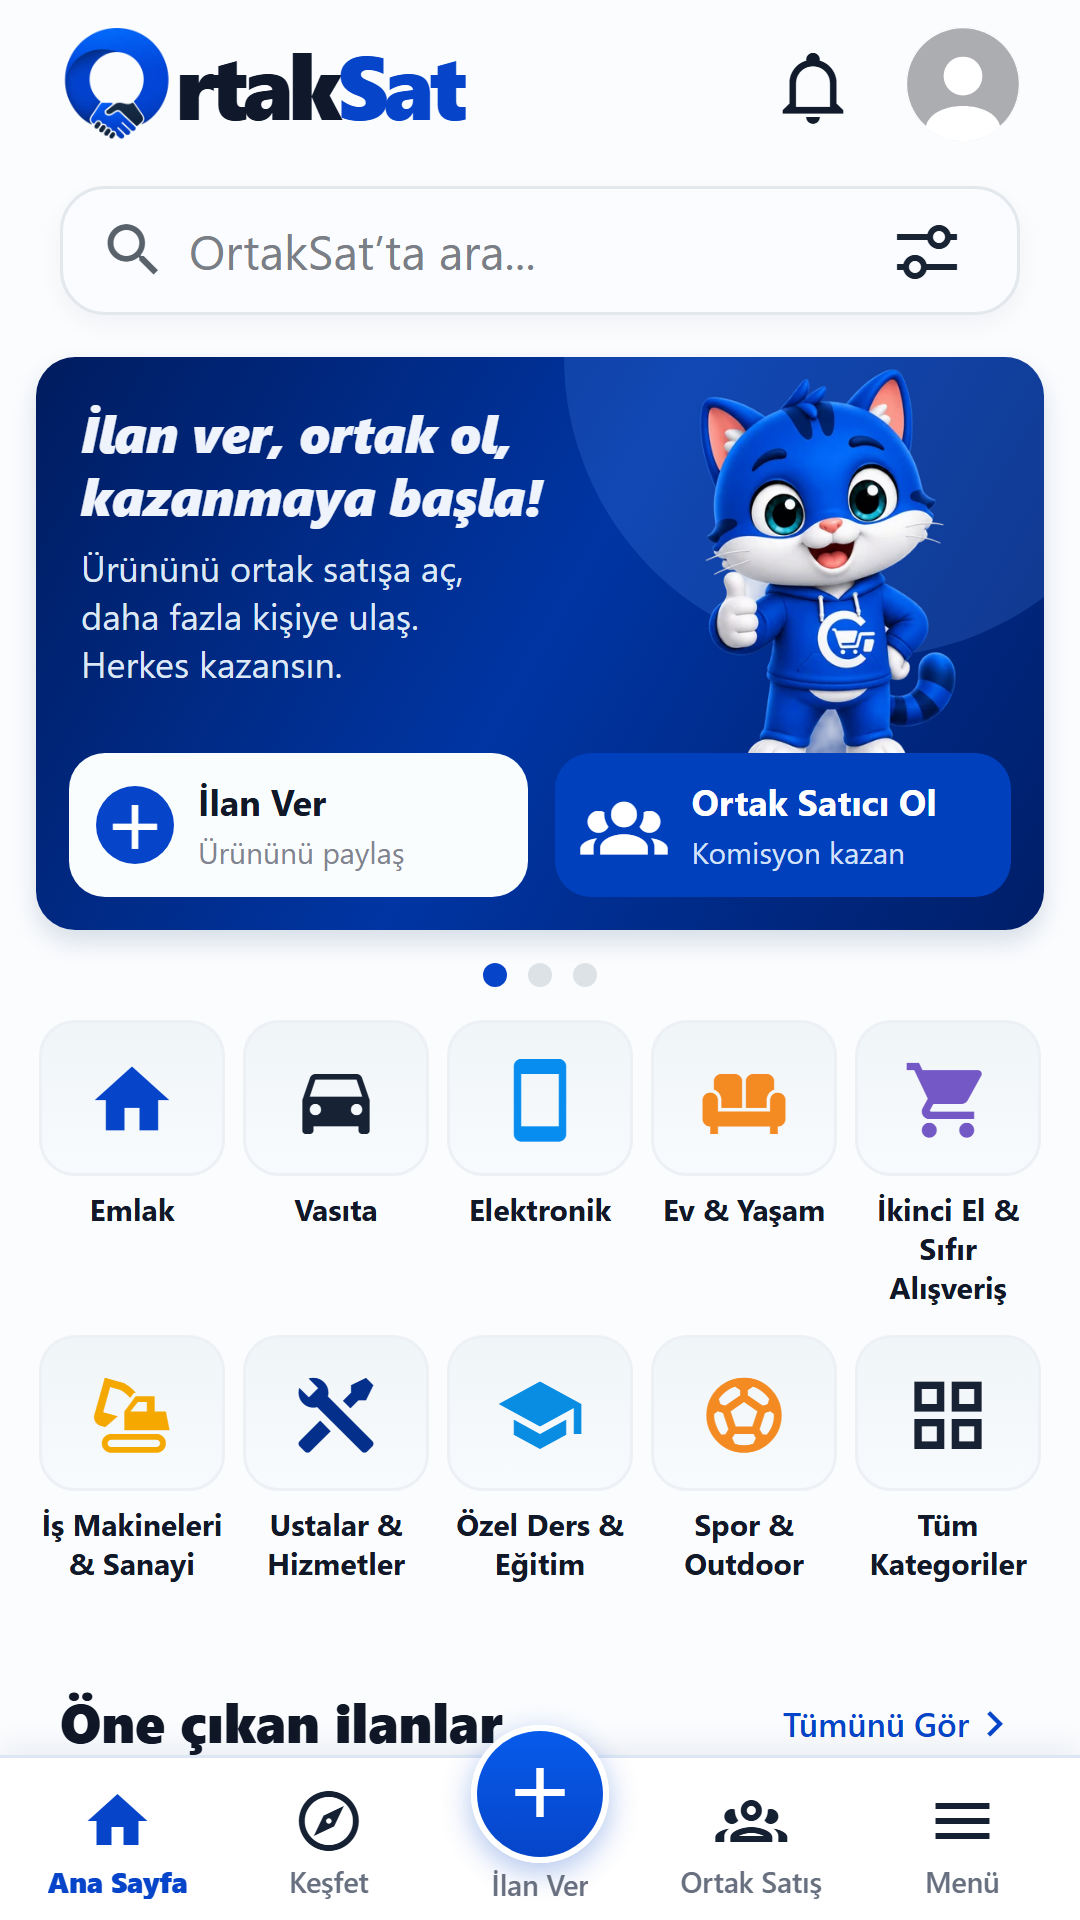
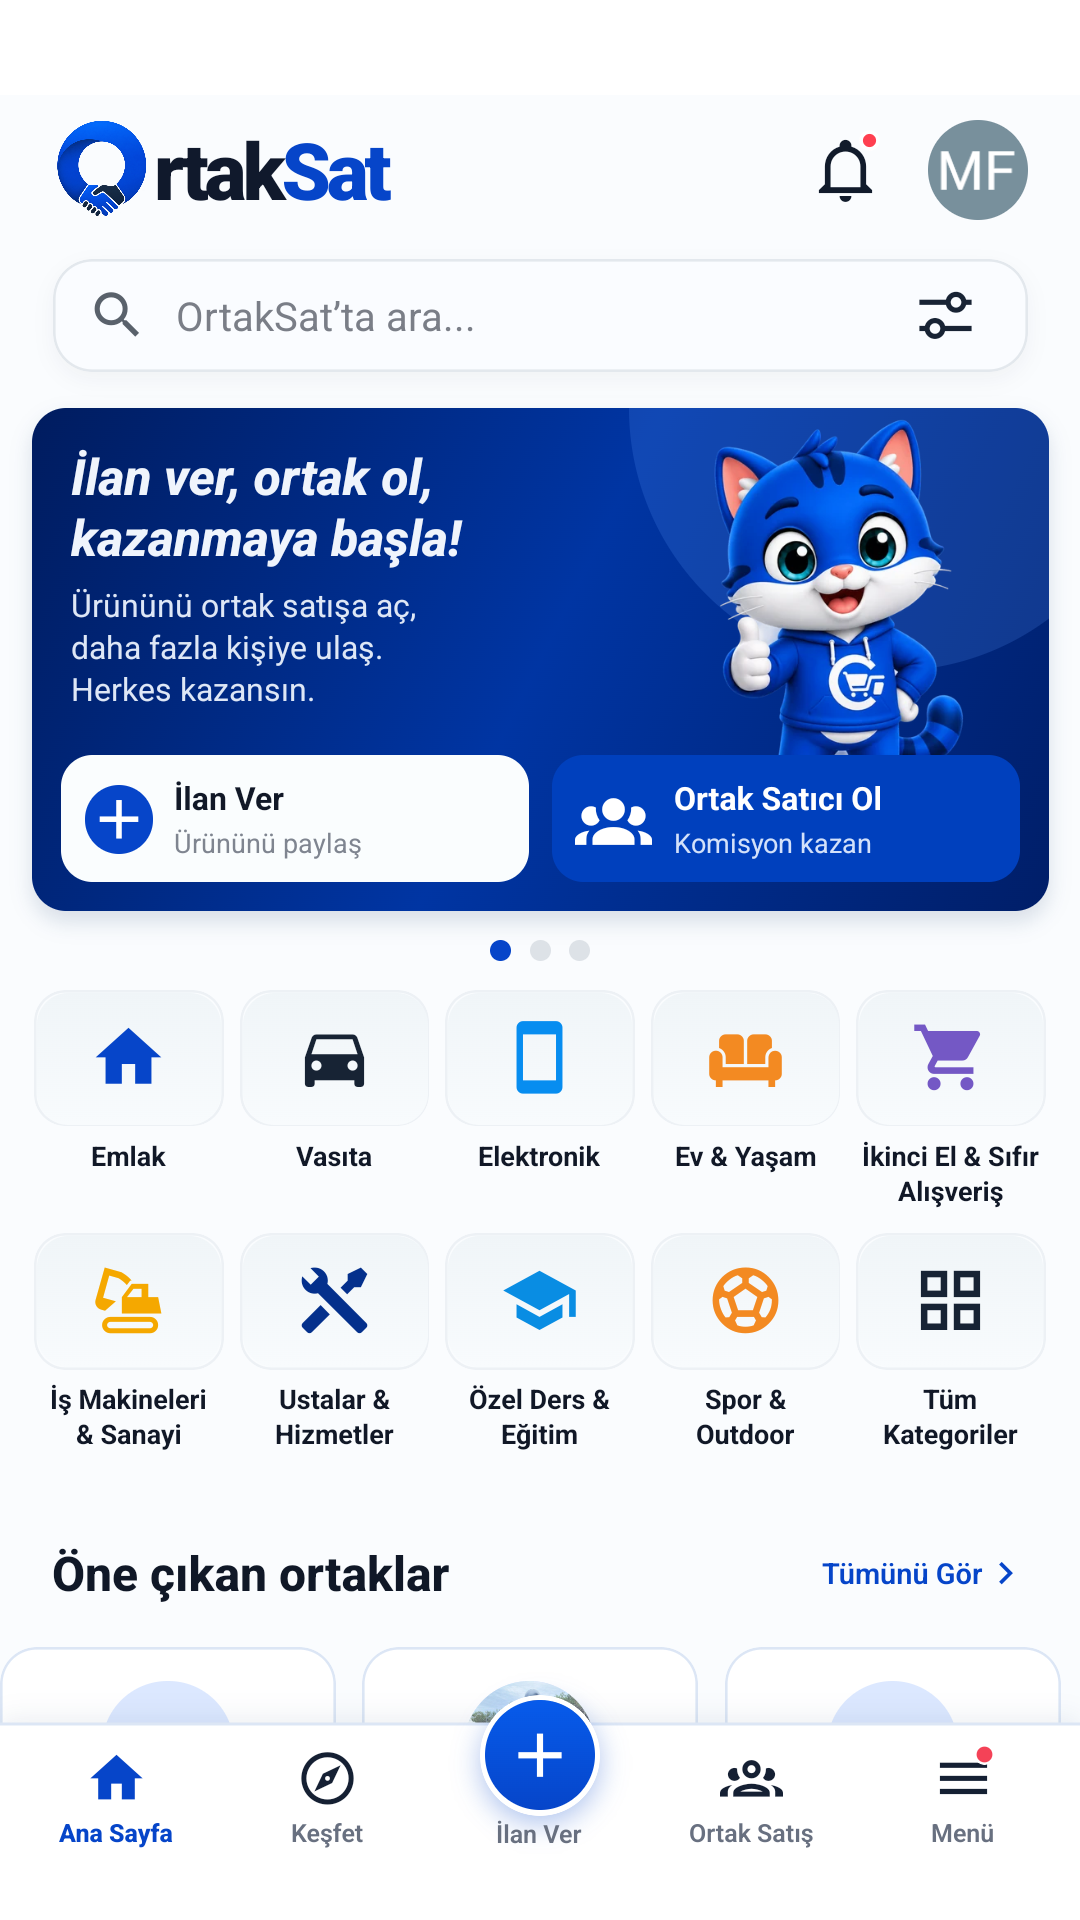
Mağaza hazırlığı: misafir seçimi hatırlanır, gerçek uygulamadan ekran görüntüleri, inceleme hesabı aracı
- "Geç" diyen kullanıcıya her açılışta giriş ekranı gösterilmez (çıkış yapınca sıfırlanır).
- Ekran görüntüleri yayın derlemesinden: Play telefon 1080×1920, iPhone 6,9" 1320×2868, iPad 13" 2064×2752 (altışar).
- scripts/review-account.py: incelemeci hesabını aç / şifre yenile / sil (şifre dosyaya yazılmaz).
- Gizlilik beyanı koddaki gerçek veri kullanımına göre güncellendi; eski çelişkili mağaza metinleri kaldırıldı.

diff --git a/lib/mobile-access.tsx b/lib/mobile-access.tsx
@@ -1,6 +1,7 @@
 import { createContext, useContext, useEffect, useRef, useState, type ReactNode } from "react";
 import { ActivityIndicator, StyleSheet, View } from "react-native";
 import { useGlobalSearchParams, usePathname, useRootNavigationState, useRouter, useSegments } from "expo-router";
+import AsyncStorage from "@react-native-async-storage/async-storage";
 import { isMobileApp } from "@/lib/mobile-app";
 import { useStore } from "@/lib/use-store";
 
@@ -34,6 +35,7 @@ export function goToTabRoute(router: ReturnType<typeof useRouter>, href: string,
 // Açılışta oturum kontrolü ağ yüzünden uzarsa (çevrimdışı + süresi dolmuş token → auth-js ~30sn
 // yeniden dener) tam-ekran bekleme katmanı en fazla bu kadar durur; sonra uygulama görünür olur.
 const AUTH_OVERLAY_MAX_WAIT_MS = 3000;
+const GUEST_KEY = "ortaksat.guest.v1";
 
 const AccessContext = createContext<{ skip: (to?: string) => void }>({ skip: () => {} });
 export const useMobileAccess = () => useContext(AccessContext);
@@ -41,6 +43,18 @@ export const useMobileAccess = () => useContext(AccessContext);
 export function MobileAccessProvider({ children }: { children: ReactNode }) {
   const { authReady, isAuthenticated } = useStore();
   const [guest, setGuest] = useState(false);
+  // MİSAFİR KİPİ HATIRLANIR: "Geç" diyen kullanıcıya her açılışta giriş duvarı gösterilmez (mağaza incelemesi de
+  // giriş zorlamasını sevmez). Bayrak okunana kadar yönlendirme bekler; çıkış yapınca silinir (bilinçli çıkış → giriş ekranı).
+  const [guestLoaded, setGuestLoaded] = useState(!isMobileApp);
+  useEffect(() => {
+    if (!isMobileApp) return;
+    let alive = true;
+    AsyncStorage.getItem(GUEST_KEY)
+      .then((value) => { if (alive && value === "1") setGuest(true); })
+      .catch(() => undefined)
+      .finally(() => { if (alive) setGuestLoaded(true); });
+    return () => { alive = false; };
+  }, []);
   const [overlayTimedOut, setOverlayTimedOut] = useState(false);
   const previousAuth = useRef(isAuthenticated);
   const path = usePathname();
@@ -60,10 +74,10 @@ export function MobileAccessProvider({ children }: { children: ReactNode }) {
   // Browsing permission lasts for this launch. Supabase alone persists authenticated sessions.
   const signedOut = previousAuth.current && !isAuthenticated;
   const publicAuthRoute = /^\/(auth|onay|guven-yonlendirme|guven-profili|kullanim-sartlari|gizlilik-politikasi|kvkk|legal|hesap-silme)(\/|$)/.test(path);
-  const redirect = isMobileApp && authReady && !isAuthenticated && !publicAuthRoute && (!guest || signedOut || requiresMobileAccount(path));
+  const redirect = isMobileApp && authReady && guestLoaded && !isAuthenticated && !publicAuthRoute && (!guest || signedOut || requiresMobileAccount(path));
   useEffect(() => {
     if (!authReady) return;
-    if (previousAuth.current && !isAuthenticated) setGuest(false);
+    if (previousAuth.current && !isAuthenticated) { setGuest(false); AsyncStorage.removeItem(GUEST_KEY).catch(() => undefined); }
     previousAuth.current = isAuthenticated;
   }, [authReady, isAuthenticated]);
   useEffect(() => {
@@ -80,12 +94,13 @@ export function MobileAccessProvider({ children }: { children: ReactNode }) {
   // ikinci bir (tabs) / ikinci bir ilan ekranı yığılmasın. Web'de davranış eskisiyle AYNI.
   const skip = (to?: string) => {
     setGuest(true);
+    if (isMobileApp) AsyncStorage.setItem(GUEST_KEY, "1").catch(() => undefined);
     const target = to ?? "/";
     if (isMobileApp && router.canDismiss()) router.dismissTo(target as never);
     else router.replace(target as never);
   };
   return <AccessContext.Provider value={{ skip }}>
     {children}
-    {isMobileApp && ((!authReady && !overlayTimedOut) || redirect) && <View accessibilityLabel="Oturum kontrol ediliyor" style={[StyleSheet.absoluteFill, { backgroundColor: "#F6F9FF", alignItems: "center", justifyContent: "center", zIndex: 9999 }]}><ActivityIndicator color="#0645C9" size="large" /></View>}
+    {isMobileApp && (((!authReady || !guestLoaded) && !overlayTimedOut) || redirect) && <View accessibilityLabel="Oturum kontrol ediliyor" style={[StyleSheet.absoluteFill, { backgroundColor: "#F6F9FF", alignItems: "center", justifyContent: "center", zIndex: 9999 }]}><ActivityIndicator color="#0645C9" size="large" /></View>}
   </AccessContext.Provider>;
 }

diff --git a/scripts/review-account.py b/scripts/review-account.py
@@ -1,0 +1,73 @@
+# Mağaza İNCELEME HESABI (App Store / Google Play incelemecileri için giriş bilgisi).
+#
+# Proje kökünden:
+#   python scripts/review-account.py olustur   → hesabı açar (e-postası onaylı), yeni şifreyi YALNIZ ekrana yazar
+#   python scripts/review-account.py sifre     → şifreyi yeniler (her gönderimde yeni şifre önerilir)
+#   python scripts/review-account.py sil       → hesabı ve bağlı verisini siler (inceleme bitince)
+#   python scripts/review-account.py durum
+#
+# Hesap boş bir kullanıcıdır: ilan, mesaj, yorum ÜRETİLMEZ (sahte veri yasağı). İncelemeci uygulamayı
+# gerçek içerikle gezer; isterse kendisi ilan açabilir. Şifre hiçbir dosyaya yazılmaz; mağaza panelinin
+# "inceleme bilgileri" alanına elle girilir. Erişim .env içindeki SUPABASE_MGMT_TOKEN ile (yazdırılmaz).
+import json, secrets, string, sys, urllib.request
+
+EMAIL = "inceleme@ortaksat.com"
+NAME = "Mağaza İnceleme"
+
+
+def env():
+    return dict(l.strip().split("=", 1) for l in open(".env", encoding="utf-8") if "=" in l and not l.startswith("#"))
+
+
+E = env()
+TOKEN = E["SUPABASE_MGMT_TOKEN"].strip().strip('"')
+REF = E.get("SUPABASE_PROJECT_REF", "akyzzdwbzgsnhdircuce").strip().strip('"')
+
+
+def sql(query):
+    req = urllib.request.Request(f"https://api.supabase.com/v1/projects/{REF}/database/query",
+                                 data=json.dumps({"query": query}).encode("utf-8"), method="POST",
+                                 headers={"Authorization": "Bearer " + TOKEN, "Content-Type": "application/json"})
+    with urllib.request.urlopen(req, timeout=60) as r:
+        return json.loads(r.read().decode("utf-8") or "[]")
+
+
+def new_password():
+    alphabet = string.ascii_letters + string.digits
+    return "Os-" + "".join(secrets.choice(alphabet) for _ in range(14)) + "!7"
+
+
+def user_id():
+    rows = sql(f"select id from auth.users where email = '{EMAIL}' limit 1")
+    return rows[0]["id"] if rows else None
+
+
+cmd = sys.argv[1] if len(sys.argv) > 1 else "durum"
+if cmd == "durum":
+    uid = user_id()
+    print("Hesap:", EMAIL, "→", "VAR" if uid else "yok")
+elif cmd == "olustur":
+    if user_id():
+        sys.exit("Hesap zaten var. Şifreyi yenilemek için: python scripts/review-account.py sifre")
+    pw = new_password()
+    sql(f"""insert into auth.users (instance_id, id, aud, role, email, encrypted_password, email_confirmed_at,
+            raw_app_meta_data, raw_user_meta_data, created_at, updated_at, confirmation_token, email_change,
+            email_change_token_new, recovery_token)
+          values ('00000000-0000-0000-0000-000000000000', gen_random_uuid(), 'authenticated', 'authenticated',
+            '{EMAIL}', crypt('{pw}', gen_salt('bf')), now(), '{{"provider":"email","providers":["email"]}}'::jsonb,
+            '{{"full_name":"{NAME}"}}'::jsonb, now(), now(), '', '', '', '')""")
+    print("Hesap açıldı.\n  E-posta:", EMAIL, "\n  Şifre:  ", pw, "\nBu şifreyi mağaza panelindeki inceleme bilgilerine gir; başka yere kaydetme.")
+elif cmd == "sifre":
+    if not user_id():
+        sys.exit("Hesap yok. Önce: python scripts/review-account.py olustur")
+    pw = new_password()
+    sql(f"update auth.users set encrypted_password = crypt('{pw}', gen_salt('bf')), updated_at = now() where email = '{EMAIL}'")
+    print("Yeni şifre:", pw)
+elif cmd == "sil":
+    uid = user_id()
+    if not uid:
+        sys.exit("Hesap zaten yok.")
+    sql(f"delete from auth.users where id = '{uid}'")
+    print("Silindi:", EMAIL)
+else:
+    sys.exit("Kullanım: python scripts/review-account.py olustur | sifre | sil | durum")

diff --git a/docs/release/store-listing.md b/docs/release/store-listing.md
@@ -75,45 +75,37 @@ OrtakSat is a marketplace where you open your product to **affiliate selling**. 
 - **Yaş sınırı:** 4+ (App Store) / Everyone (Play) — kullanıcı içeriği moderasyonlu; küfür/yetişkin içerik yasak.
 
 ## 9. Gizlilik & Veri (App Store Privacy + Play Data Safety)
-Uygulamanın topladığı veriler (dürüst beyan):
-| Veri | Amaç | Kimlikle bağlı? |
-|---|---|---|
-| E-posta, ad | Hesap, iletişim | Evet |
-| Telefon (opsiyonel) | Satıcı iletişimi | Evet |
-| İlan içeriği + fotoğraf | Hizmetin işlevi | Evet |
-| Konum (il/ilçe, elle girilen) | İlan konumu | Evet |
-| Kullanım/çökme (Vercel Analytics) | Analitik, çerezsiz | Hayır |
-| Push token | Bildirim | Evet |
-- **Üçüncü tarafa satış:** YOK.
-- **Şifreleme:** İletimde TLS. `ITSAppUsesNonExemptEncryption: false` (standart HTTPS).
+Uygulamanın topladığı veriler (dürüst beyan, 16 Kasım 2026 kod denetimine göre):
+
+| Veri | Amaç | Kimlikle bağlı? | Zorunlu mu? |
+|---|---|---|---|
+| E-posta adresi, ad | Hesap, giriş, iletişim | Evet | Evet |
+| Telefon numarası | Satıcıyla iletişim, doğrulama | Evet | Hayır |
+| Fotoğraf ve video (kullanıcının seçtiği) | İlan, profil, mesaj eki, şikâyet kanıtı | Evet | Hayır |
+| Konum (kesin) | Yakındaki ilanlar, ilan konumu, sohbette konum paylaşımı — yalnız kullanıcı dokununca | Evet | Hayır |
+| Mesajlar, ilanlar, yorumlar | Hizmetin işlevi | Evet | — |
+| Cihaz belirteci (anlık bildirim) | Bildirim göndermek | Evet | Hayır |
+| Uygulama içi etkileşim sayaçları (ilan verme adımları) | Ürünü geliştirmek; kimliksiz sayılır | Hayır | — |
+
+- **Takip (Apple ATT):** YOK. Uygulamada reklam veya izleme yazılımı yoktur (Meta Pixel yalnız web sitesinde, rıza ile).
+- **Üçüncü tarafa satış / paylaşım:** YOK.
+- **Şifreleme:** İletimde TLS. `ITSAppUsesNonExemptEncryption: false`.
+- **Veri silme:** Uygulama içinde Menü → Hesap Ayarları → Hesabımı Sil; web: https://www.ortaksat.com/hesap-silme (30 gün içinde iptal edilebilir, sonra kalıcı silinir).
 - **Gizlilik politikası:** https://www.ortaksat.com/gizlilik-politikasi
-- **Hesap silme (Apple 5.1.1 zorunlu):** VAR — uygulama içi "Hesabımı Sil" (Hesap Ayarları → Hesabımı Sil → /hesap-silme). Herkese açık web sayfası (Google Play "Delete account URL"): https://www.ortaksat.com/hesap-silme
 
 ## 10. Destek & Pazarlama URL'leri
 - Destek: https://www.ortaksat.com/iletisim
 - Pazarlama: https://www.ortaksat.com
 - Gizlilik: https://www.ortaksat.com/gizlilik-politikasi
 - Kullanım şartları: https://www.ortaksat.com/kullanim-sartlari
+- Hesap silme: https://www.ortaksat.com/hesap-silme
 
----
+Not: Site Türkiye dışından açılmaz; yukarıdaki beş adres bu kuraldan muaftır (incelemeciler yurt dışından açabilir).
 
-## 11. KALAN YAYIN ADIMLARI (kod dışı — hesap/manuel)
-1. **`eas init`** → gerçek `projectId` al (app.json `extra.eas.projectId` placeholder'ını değiştir). Ücretsiz Expo hesabı.
-2. **Apple Developer** ($99/yıl) → App Store Connect'te uygulama oluştur, bundle `com.ortaksat.app`.
-3. **Google Play Developer** ($25 tek sefer) → Play Console'da uygulama oluştur, paket `com.ortaksat.app`.
-4. **Ekran görüntüleri:** iPhone 6.7" (1290×2796) + 6.5" + 5.5"; Android telefon + 7"/10" tablet. Gerçek cihaz/emülatörden.
-5. **Build:** `eas build --platform all --profile production`.
-6. **Push kimlik bilgileri:** EAS ile APNs (iOS) + FCM (Android) — `eas credentials`.
-7. **Cihaz testi:** gerçek iPhone + Android'de tam akış (kayıt, ilan, teklif, mesaj).
-8. **Apple ile Giriş:** Google girişi olduğu için iOS'ta ZORUNLU (Guideline 4.8) — ayrı iş (bkz. memory).
-9. **Gönderim:** `eas submit --platform all --profile production`.
+## 11. İnceleme notu (App Review / Play "Uygulama erişimi")
+> OrtakSat bir ilan ve ortak satış aracı platformudur. Uygulama içinde ödeme alınmaz, dijital ürün satılmaz; ödeme ve teslimat taraflar arasında gerçekleşir. Giriş yapmadan ilanlar "Geç" ile gezilebilir. İnceleme hesabı aşağıdadır. Hesap silme: Menü → Hesap Ayarları → Hesabımı Sil. Kullanıcı içeriği için şikâyet ve engelleme: ilan, sohbet, mağaza, ortak profili ve yorumlardaki "Şikâyet et" / "Engelle" seçenekleri.
 
-## 12. HAZIR OLANLAR (kod tarafı ✓)
-- app.json: bundle ID, sürüm, izinler (kamera/galeri kullanım açıklamalı), deep link, adaptive icon, splash, notifications
-- eas.json: development/preview/production profilleri + submit config
-- Push altyapısı (guard'lı; eas init sonrası otomatik devreye girer)
-- Bildirim ikonu (Android beyaz siluet)
-- Hesap silme (Apple zorunluluğu)
-- Native-güvenli kod (tüm web API'leri guard'lı — çökme riski yok)
-- expo-doctor 18/18 geçiyor
-- Yasal sayfalar (gizlilik, şartlar, KVKK) canlı
+İnceleme hesabı: `python scripts/review-account.py olustur` (e-posta `inceleme@ortaksat.com`, şifre yalnız ekrana yazılır).
+
+## 12. Kalan adımlar
+Sıralı liste: `docs/release/STORE_RELEASE_CHECKLIST.md`.

diff --git a/docs/release/STORE_RELEASE_CHECKLIST.md b/docs/release/STORE_RELEASE_CHECKLIST.md
@@ -13,6 +13,9 @@ Mağaza metinleri `docs/release/store-listing.md` dosyasında, görseller `store
 | Expo projesi | Kayıtlı: `@fatih3434/ortaksat-mobile` (kimlik `app.json` içinde) |
 | Paket adı / sürüm | `com.ortaksat.app` · 1.0.0 · hedef Android sürümü 36 |
 | Hesap silme (uygulama içi + web) | Çalışıyor; sunucu işlevleri ve gece görevi canlıda |
+| Misafir gezinme | "Geç" ile; seçim hatırlanır, her açılışta giriş zorlanmaz |
+| Mağaza ekran görüntüleri | Play telefon, iPhone 6,9", iPad 13" — gerçek uygulamadan |
+| Yasal bağlantılar uygulamada | Menü → Yasal ve Gizlilik |
 | Şikâyet / engelleme | İlan, sohbet, mağaza, ortak vitrini ve yorumlarda var |
 | Apple ile giriş | iOS'ta Google ile birlikte gösteriliyor |
 | Ödeme / uygulama içi satın alma | Yok (platform para almıyor) |
@@ -59,7 +62,6 @@ npx eas-cli submit --platform ios --profile production
 - Anlık bildirim anahtarı: ilk iOS derlemesinde Expo sorar, **Evet** de.
 - **Hesap silmede Apple belirtecinin iptali:** Apple, "Apple ile giriş" kullanan hesap silindiğinde girişin Apple tarafında da iptal edilmesini istiyor. Bunun için Apple hesabından bir anahtar (.p8) gerekiyor; hesap açılınca eklerim.
 - "E-postamı gizle" seçen kullanıcılara e-posta gidebilmesi için gönderen alan adını Apple hesabına kaydet.
-- iPad ekran görüntüleri (13 inç) zorunlu, çünkü uygulama tablet destekliyor. Henüz üretilmedi.
 
 ## 6. Uygulama bağlantıları
 
@@ -75,7 +77,9 @@ Paylaşılan ilan linkinin uygulamada açılması için iki değer gerekiyor; ba
 | Ad, kısa/uzun açıklama, anahtar kelimeler | `docs/release/store-listing.md` |
 | Play simgesi (512) | `store/graphics/play-simge-512.png` |
 | Play öne çıkan görseli (1024×500) | `store/graphics/play-one-cikan-gorsel-1024x500.png` |
-| Telefon ekran görüntüleri | `store/screenshots/play-telefon/`, `store/screenshots/ios-6.7/` |
+| Play telefon ekran görüntüleri (1080×1920) | `store/screenshots/play-telefon/` |
+| iPhone 6,9 inç (1320×2868) | `store/screenshots/ios-6.9/` |
+| iPad 13 inç (2064×2752) — Play tablete de uygun | `store/screenshots/ipad-13/` |
 | Gizlilik politikası | https://www.ortaksat.com/gizlilik-politikasi |
 | Kullanım şartları | https://www.ortaksat.com/kullanim-sartlari |
 | Destek | https://www.ortaksat.com/iletisim |
@@ -86,8 +90,8 @@ Veri güvenliği / gizlilik beyanı için `store-listing.md` bölüm 9'daki tabl
 
 ## 8. İnceleme ekibi için
 
-- **Test hesabı:** incelemeciler giriş gerektiren ekranları görmek ister. Gönderimden hemen önce bir inceleme hesabı açıp bilgilerini inceleme notuna yazmak gerekir; istediğinde hazırlarım.
-- **İnceleme notu (öneri):** "OrtakSat bir ilan ve ortak satış aracı platformudur. Uygulama içinde ödeme alınmaz; ödeme ve teslimat taraflar arasında gerçekleşir. Hesap silme: Menü → Hesap Ayarları → Hesabımı Sil."
+- **Test hesabı:** gönderimden hemen önce `python scripts/review-account.py olustur` çalıştır; e-posta `inceleme@ortaksat.com`, şifre yalnız ekrana yazılır. Bunları mağaza panelinin inceleme bilgilerine gir. İnceleme bitince `... sil`.
+- **İnceleme notu:** hazır metin `store-listing.md` bölüm 11'de.
 - **Türkiye dışı erişim:** site Türkiye dışına kapalıdır, ancak uygulama bundan etkilenmez; yasal sayfalar ve destek her ülkeden açılır.
 
 ## 9. Yayından hemen önce kaldırılacak deneme ayarları

diff --git a/store/README.md b/store/README.md
@@ -1,0 +1,18 @@
+# Mağaza dosyaları
+
+| Ne | Nerede |
+|---|---|
+| Ad, açıklamalar, anahtar kelimeler, gizlilik beyanı | `docs/release/store-listing.md` |
+| Yayın adımları (sırasıyla) | `docs/release/STORE_RELEASE_CHECKLIST.md` |
+| Play simgesi 512 × 512 | `graphics/play-simge-512.png` |
+| Play öne çıkan görseli 1024 × 500 | `graphics/play-one-cikan-gorsel-1024x500.png` |
+| Play telefon ekran görüntüleri 1080 × 1920 | `screenshots/play-telefon/` |
+| Play tablet ekran görüntüleri | `screenshots/ipad-13/` (aynı görüntüler Play tablete de uygundur) |
+| App Store iPhone 6,9 inç 1320 × 2868 | `screenshots/ios-6.9/` |
+| App Store iPad 13 inç 2064 × 2752 | `screenshots/ipad-13/` |
+
+Ekran görüntüleri gerçek uygulamadan (Android yayın derlemesi) çekildi; durum çubuğu ve sistem hareket çizgisi
+uygulamanın zemin rengiyle örtüldü. Uygulama değişince yeniden çekilmeli.
+
+Gizlilik politikası, kullanım şartları ve hesap silme sayfaları sitede yayında (bağlantılar `store-listing.md` içinde);
+ayrı bir taslak metin tutulmaz.
